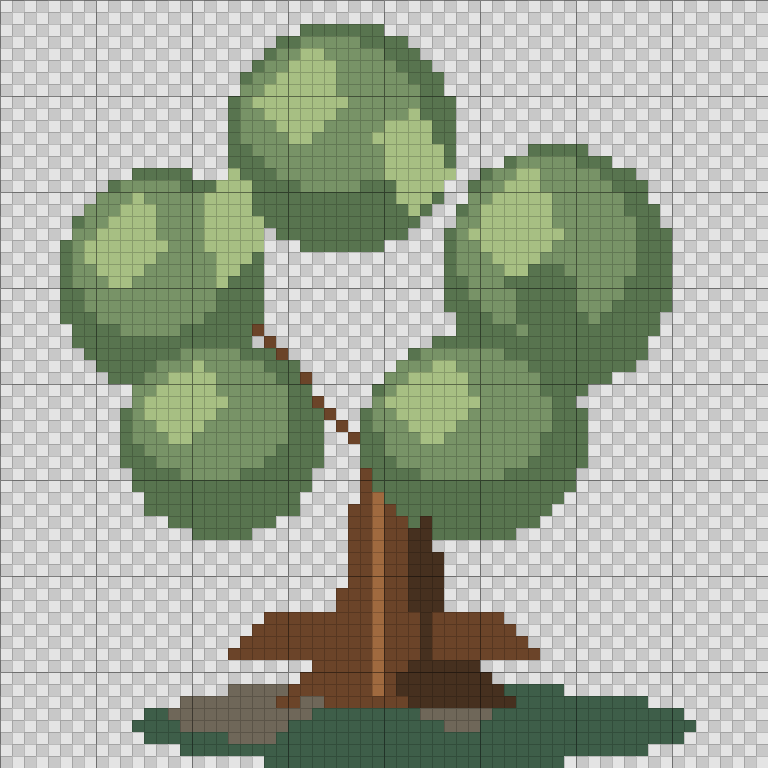
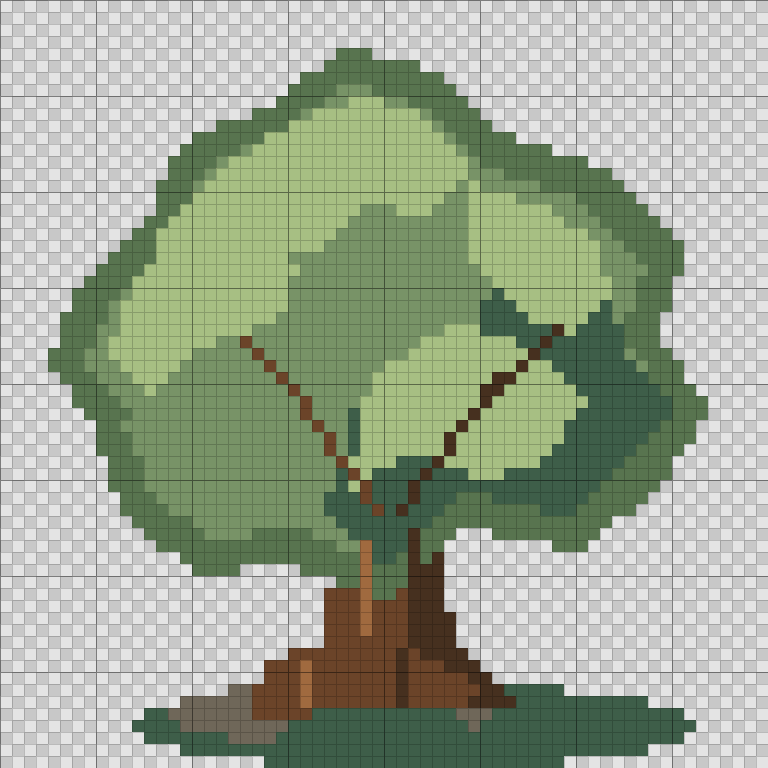
feat(desktop): unify Dusk atmosphere and reauthor oak

diff --git a/apps/desktop/scripts/world-art-pxl/trees.px.js b/apps/desktop/scripts/world-art-pxl/trees.px.js
@@ -55,13 +55,50 @@ function tree(name, fill, shadow, light, clumps, extra) {
   });
 }
 
-// Broad oak: a slightly leaning crown with five overlapping masses and visible roots.
-tree("tree-round", "G", "f", "g", [
-  [28, 11, 9, 9], [13, 23, 8, 9], [46, 22, 9, 10], [18, 36, 8, 8], [39, 36, 9, 8],
-], (c) => {
-  c.poly([17, 17, 20, 13, 22, 20, 18, 25], "g");
-  c.poly([31, 11, 35, 9, 38, 15, 34, 18], "g");
-  c.poly([42, 23, 47, 22, 49, 27, 45, 30], "f");
+// Broad oak: a connected, wind-shaped crown with layered boughs and an open
+// lower canopy. Planes follow the upper-left sun instead of reading as balls.
+sprite("tree-round", { w: 64, h: 64 }, (c) => {
+  groundShadow(c);
+  trunk(c, 8);
+
+  // Deep silhouette: left crown reaches farther forward, with a broken ridge
+  // and a lifted east edge rather than a circle of separate leaf clumps.
+  c.poly([
+    29, 4, 37, 6, 42, 11, 51, 14, 57, 21, 55, 28, 59, 34,
+    55, 41, 48, 46, 39, 44, 33, 50, 24, 47, 17, 48, 10, 43,
+    8, 36, 4, 30, 7, 23, 12, 19, 15, 12, 22, 9,
+  ], "f");
+
+  // The middle canopy is one continuous mass. A darker lee plane gives the
+  // boughs weight; upper-left breaks catch warm daylight.
+  c.poly([
+    29, 7, 36, 9, 41, 14, 49, 17, 54, 22, 52, 28, 56, 34,
+    52, 39, 47, 43, 39, 41, 32, 47, 25, 44, 18, 45, 12, 41,
+    11, 35, 7, 30, 10, 24, 15, 20, 17, 14, 23, 11,
+  ], "G");
+  c.poly([33, 22, 42, 18, 50, 22, 52, 29, 56, 34, 52, 39, 47, 43, 39, 41, 32, 47, 27, 43], "F");
+
+  // Sunward bough planes; stepped, angular leaf edges keep the silhouette
+  // readable at the small in-world scale.
+  c.poly([20, 13, 25, 10, 31, 8, 36, 10, 39, 14, 36, 18, 30, 17, 27, 21, 20, 20, 16, 23, 13, 20], "g");
+  c.poly([11, 24, 15, 19, 21, 18, 25, 22, 23, 27, 17, 29, 13, 33, 9, 30], "g");
+  c.poly([25, 22, 31, 18, 38, 19, 42, 23, 39, 28, 34, 29, 30, 34, 24, 31], "G");
+  c.poly([39, 15, 45, 17, 50, 20, 51, 25, 47, 28, 42, 25, 39, 21], "g");
+  c.poly([14, 33, 19, 29, 26, 31, 28, 36, 24, 41, 17, 42, 12, 39, 10, 35], "G");
+  c.poly([31, 31, 38, 27, 45, 29, 49, 33, 46, 38, 41, 40, 34, 38, 29, 41], "g");
+
+  // Forks show through two deliberate gaps; roots and bark planes carry the
+  // same left-lit direction as the canopy.
+  c.line(31, 42, 24, 32, "D");
+  c.line(33, 42, 41, 31, "b");
+  c.line(25, 33, 20, 28, "D");
+  c.line(40, 33, 46, 27, "b");
+  c.vline(30, 45, 13, "d");
+  c.vline(34, 44, 14, "b");
+  c.poly([22, 55, 32, 53, 40, 57, 38, 60, 21, 60], "D");
+  c.vline(25, 55, 4, "d");
+  c.vline(33, 54, 5, "b");
+  c.poly([27, 59, 37, 59, 42, 62, 22, 62], "F");
 });
 
 // Flowering plum: an open crown, with blossom confined to a few lit sprays.

diff --git a/apps/desktop/src/features/world/world.module.css b/apps/desktop/src/features/world/world.module.css
@@ -88,6 +88,20 @@
   outline: none;
 }
 
+/* Blue hour belongs to the whole visible valley, not the moving rectangle of
+   map tiles. Keep this atmosphere fixed to the viewport as the player pans;
+   semantic controls and the camera HUD remain above it. */
+.worldAtmosphere {
+  position: absolute;
+  inset: 0;
+  z-index: 7;
+  pointer-events: none;
+}
+
+:root[data-theme='dusk'] .worldAtmosphere {
+  background: linear-gradient(180deg, rgb(35 43 91 / 36%), rgb(24 27 62 / 48%));
+}
+
 /* Crossing a project doorway keeps the map in place while its real scene
    changes underneath it. A brief pixel-step dissolve makes the change legible
    without slowing down a work action or scaling the pixel art out of focus. */
@@ -371,7 +385,7 @@
 .entity:focus-visible {
   outline: var(--focus-ring);
   outline-offset: 2px;
-  z-index: 6;
+  z-index: 11;
 }
 
 .entity[data-selected='true'] {
@@ -810,13 +824,6 @@
     radial-gradient(ellipse at 80% 24%, rgb(117 224 221 / 8%), transparent 33%),
     radial-gradient(ellipse at 50% 100%, rgb(22 39 47 / 13%), transparent 44%),
     linear-gradient(180deg, rgb(255 245 209 / 3%), transparent 30%, rgb(31 42 39 / 9%));
-}
-
-:root[data-theme='dusk'] .mapWorld::after {
-  /* Keep the blue-hour pass even across independently rendered ground tiles.
-     Large radial fields produced visible rectangular seams as the transformed
-     map was repainted. Lamps and windows supply local warmth above this layer. */
-  background: linear-gradient(180deg, rgb(35 43 91 / 24%), rgb(24 27 62 / 36%));
 }
 
 /* World theme pack picker (single Hornero Valley pack today) */

diff --git a/apps/desktop/src/features/world/WorldEntityMap.tsx b/apps/desktop/src/features/world/WorldEntityMap.tsx
@@ -628,6 +628,7 @@ export function WorldEntityMap({
         }
       }}
     >
+      <div className={styles.worldAtmosphere} aria-hidden="true" />
       {/* Keyboard pan lives on a real button so the map region itself stays non-interactive. */}
       <button
         ref={panFocusRef}
